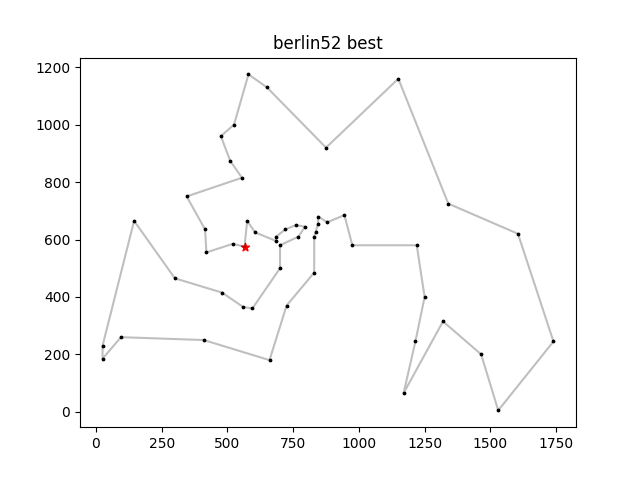
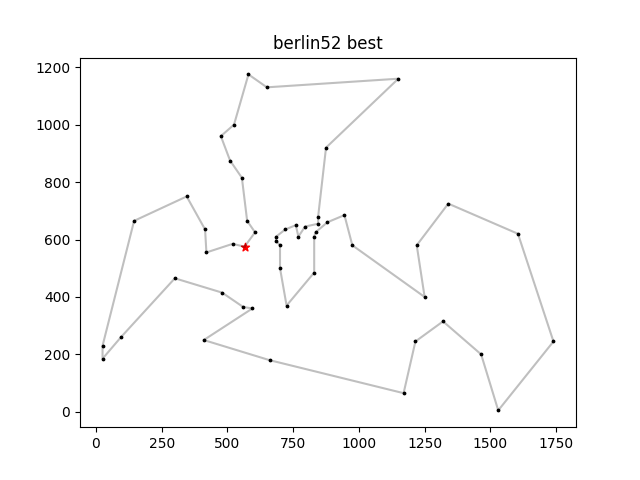
Release new solutions berlin52

diff --git a/cs790K/as3/main.py b/cs790K/as3/main.py
@@ -45,7 +45,7 @@ for filePath in listdir(solutionPath):
         print('Cannot find problem with matching solution name: ' + fileName)
 
 #for instanceName, instance in instances.items():
-instanceName = 'eil76'
+instanceName = 'berlin52'
 if instanceName in solutions:
     eval = evaluator.Evaluator(instances[instanceName], True)
     ga = GA(eval, False)

diff --git a/cs790K/as3/options.py b/cs790K/as3/options.py
@@ -2,8 +2,8 @@
 
 class Options:
 	def __init__(self):
-		self.populationSize = 200
-		self.maxGen = 300
+		self.populationSize = 500
+		self.maxGen = 750
 		self.pCross = 0.99
 		self.pMut = 0.05
 

diff --git a/cs790K/as3/ga.py b/cs790K/as3/ga.py
@@ -20,7 +20,7 @@ class GA:
 		self.maxObjective = 0
 		self.eval = evaler
 
-		self.qualityTolerance = -0.5
+		self.qualityTolerance = -5
 		self.runCount = 0
 		self.runsNearOptimum = 0
 
